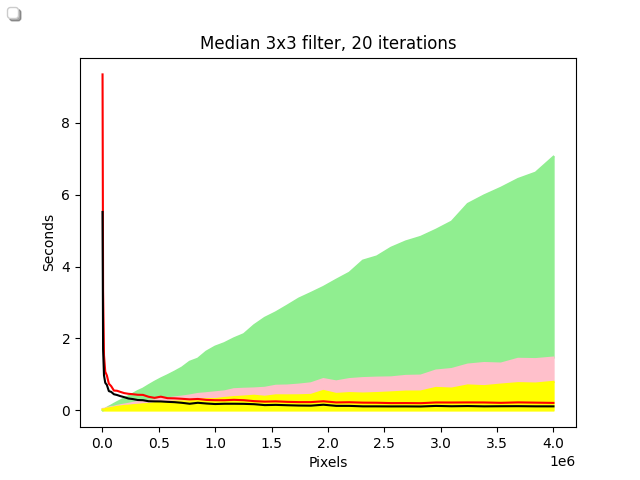
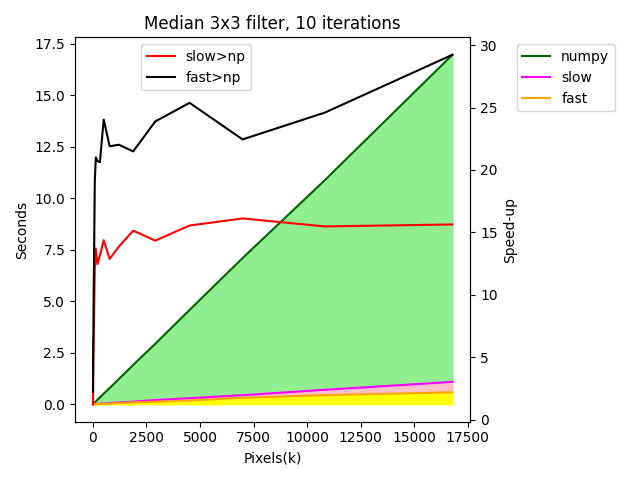
Improving the docs, getting the examples working again

diff --git a/examples/median3x3_comparison.py b/examples/median3x3_comparison.py
@@ -11,17 +11,16 @@ def median3x3(input, iterations=1):
         input = median_filter(input,3)
     return input
 
-sizes = []
 areas = []
 yapocisfast_deltas = []
 yapocis_deltas = []
 numpy_deltas = []
 errors = []
-ITERATIONS=20
-SAMPLES=50
-STEP=40
-for i in range(0,SAMPLES):
-    width = (i+1)*STEP
+ITERATIONS=10
+SAMPLES=20
+sizes = np.logspace(6,12,num=SAMPLES,base=2).astype(np.int)
+
+for width in sizes:
     img = np.float32(np.random.random_sample((width,width)))
     
     t = time.time()
@@ -37,34 +36,38 @@ for i in range(0,SAMPLES):
     yapocisfast_delta = time.time() - t
 
     print(width, numpy_delta, yapocis_delta, yapocisfast_delta)
-    sizes.append(width)
     areas.append(width*width)
     numpy_deltas.append(numpy_delta)
     yapocis_deltas.append(yapocis_delta)
     yapocisfast_deltas.append(yapocisfast_delta)
     
 from matplotlib import pyplot as plot
-areas = np.array(areas)
+areas = np.array(areas)/1000.
 numpy_deltas = np.array(numpy_deltas)
 yapocis_deltas = np.array(yapocis_deltas)
 yapocisfast_deltas = np.array(yapocisfast_deltas)
-ratio = yapocis_deltas/numpy_deltas
-ratio2 = yapocisfast_deltas/numpy_deltas
-p = plot.subplot(111)
-plot.title("Median 3x3 filter, %s iterations" % ITERATIONS,fontsize="large")
-l1 = plot.plot(areas, numpy_deltas,color="lightgreen")
-l2 = plot.plot(areas, yapocis_deltas,color="pink")
-l3 = plot.plot(areas, yapocisfast_deltas,color="yellow")
-l4 = p.plot(areas,ratio,color="red")
-l5 = p.plot(areas,ratio2,color="black")
-plot.fill_between(areas, numpy_deltas, yapocis_deltas,color="lightgreen")
-plot.fill_between(areas, yapocisfast_deltas, yapocis_deltas, color="pink")
-plot.fill_between(areas, np.zeros_like(yapocis_deltas),yapocisfast_deltas, 
+ratio = 1.0/(yapocis_deltas/numpy_deltas)
+ratio2 = 1.0/(yapocisfast_deltas/numpy_deltas)
+unity = numpy_deltas/numpy_deltas
+fig, ax1 = plot.subplots()
+ax1.set_title("Median 3x3 filter, %s iterations" % ITERATIONS,fontsize="large")
+ax1.set_xlabel("Pixels(k)",fontsize="medium")
+ax1.plot(areas, numpy_deltas,color="darkgreen",label="numpy")
+ax1.plot(areas, yapocis_deltas,color="magenta",label="slow")
+ax1.plot(areas, yapocisfast_deltas,color="orange",label="fast")
+ax1.fill_between(areas, numpy_deltas, yapocis_deltas,color="lightgreen")
+ax1.fill_between(areas, yapocisfast_deltas, yapocis_deltas, color="pink")
+ax1.fill_between(areas, np.zeros_like(yapocis_deltas),yapocisfast_deltas, 
                   color="yellow")
-plot.figlegend( (l1, l2, l3, l4, l5), 
-                ('numpy', 'yapocis','yapocis-fast','yapocis/numpy','fast/numpy'), 
-                'upper left', shadow=True)
-plot.xlabel("Pixels",fontsize="medium")
-plot.ylabel("Seconds",fontsize="medium")
-plot.savefig("../../doc/images/median3x3-performance.png")
+ax1.set_ylabel("Seconds",fontsize="medium")
+ax2 = ax1.twinx()
+ax2.plot(areas,ratio,color="red",label="slow>np")
+ax2.plot(areas,ratio2,color="black",label="fast>np")
+#ax2.plot(areas,unity,color="blue",label="baseline")
+ax2.set_ylabel("Speed-up")
+#ax2.set_ylim(0,1.2)
+ax1.legend(bbox_to_anchor=(1.1, 1.0), loc='upper left')
+ax2.legend(bbox_to_anchor=(.15, 1.0), loc='upper left')
+fig.tight_layout()
+plot.savefig("docs/images/median3x3-performance.png")
 plot.show()

diff --git a/external/demo_life.py b/external/demo_life.py
@@ -8,7 +8,7 @@ two neighbours; a dead cell is brought to life if it has exactly three
 neighbours (determined in Cell::setNextState).
     Iain Haslam, June 2005.
 """ 
-#  Copyright Sean D. True & SwapWizard dba (c) 2011-2021.
+import time
 
 from tkinter import *
 root = Tk()
@@ -48,6 +48,7 @@ class Grid:
     def __init__(self,parent,sizex,sizey):
         self.sizex = sizex
         self.sizey = sizey
+        self.running = False
         #numpy.zeros(sizex,sizey) is a better choice,
         #but an additional dependency might be rude...
         self.cells = []
@@ -65,7 +66,10 @@ class Grid:
             self.cells[9][11].displayState(Cell.LIVE)
             self.cells[10][11].displayState(Cell.LIVE)
             self.cells[11][11].displayState(Cell.LIVE)
- 
+
+    def run(self):
+        self.running = not self.running
+
     def step(self):
         """Calculate then display the next iteration of the game of life.
  
@@ -90,7 +94,10 @@ class Grid:
         for row in cells:
             for cell in row:
                 cell.stepToNextState()
- 
+        if self.running:
+            time.sleep(.001)
+            self.step()
+
     def clear(self):
         for row in self.cells:
             for cell in row:
@@ -99,12 +106,14 @@ class Grid:
 if __name__ == "__main__":
     frame = Frame(root)
     frame.pack()
-    grid = Grid(frame,25,25)
+    grid = Grid(frame,40,40)
     bottomFrame = Frame(root)
     bottomFrame.pack(side=BOTTOM)
     buttonStep = Button(bottomFrame,text="Step",command=grid.step)
     buttonStep.pack(side=LEFT)
     buttonClear = Button(bottomFrame,text="Clear",command=grid.clear)
     buttonClear.pack(side=LEFT,after=buttonStep)
+    buttonRun = Button(bottomFrame,text="Run",command=grid.run)
+    buttonRun.pack(side=LEFT,after=buttonStep)
     root.mainloop()
     

diff --git a/examples/demo_rpc.py b/examples/demo_rpc.py
@@ -30,7 +30,7 @@ def test():
     show_array("Noisy", image)
     show_array("Filtered", filtered)
     
-    image = np.float32(imread("../yapocis/test.jpg"))
+    image = np.float32(imread("tests/test.jpg"))
     image /= 256.
 
     show_array("Test HSI", image)
@@ -50,10 +50,13 @@ def test():
     g,a = gradient(i,5)
     show_array("Gradient", g)
     show_array("Angle", a)
+    g,a = gradient(i,5)
     sat = np.ones_like(i)
     gimg = join_channels(*hsi2rgb(a, sat, g))
     show_array("Color gradient with angle", gimg)
+    g,a = gradient(i,5)
     show_arraygrad("Grad angle", image, a)
+    g,a = gradient(i,5)
     show_arraygrad("Grad vectors", image, a, g * 10)
    
 if __name__ == '__main__':

diff --git a/docs/conf.py b/docs/conf.py
@@ -28,7 +28,7 @@ sys.path.insert(0, os.path.abspath('../yapocis'))
 
 # Add any Sphinx extension module names here, as strings. They can be extensions
 # coming with Sphinx (named 'sphinx.ext.*') or your custom ones.
-extensions = ['sphinx.ext.autodoc', 'sphinx.ext.viewcode','sphinx.ext.todo', 'sphinx.ext.napoleon','autoapi.extension']
+extensions = ['recommonmark', 'sphinx.ext.autodoc', 'sphinx.ext.viewcode','sphinx.ext.todo', 'sphinx.ext.napoleon','autoapi.extension']
 
 # Napoleon settings
 napoleon_google_docstring = True

diff --git a/yapocis/utils/advanced.py b/yapocis/utils/advanced.py
@@ -42,7 +42,11 @@ def _show_array(*args, normalize=True):
 
     if array.dtype != np.float32:
         array = array.astype(np.float32) / 255.
-    array = array.copy()
+    else:
+        try:
+            array = array[:,:]
+        except:
+            array = array[:,:,:]
     if normalize and array.dtype in (np.float32, np.float64, np.float):
         array -= array.min()
         array /= array.max()

diff --git a/yapocis/lib/median.py b/yapocis/lib/median.py
@@ -1,8 +1,6 @@
 '''
 Provides 2d median filter for 2d arrays
 '''
-
-
 #  Copyright Sean D. True & SwapWizard dba (c) 2011-2021.
 
 import yapocis.rpc.programs

diff --git a/docs/intro.md b/docs/intro.md
@@ -1,0 +1,63 @@
+# Introduction
+
+## Problem
+
+Image processing is inherently computationally challenging. Lots of data
+leads to lots of approximations, shortcuts, and undone experiments. We
+need code that runs fast, and is easy to develop.
+
+## Distant past
+
+I\'ve tried a fair number of hardware and software configurations for
+doing these experiments. Some, like CADDR-1, are were not readily
+available. Some, like the dedicated array processors, were
+overwhelmingly expensive. Some, like Python, come both included as
+batteries (pre-installed) and come with batteries included (Python
+packages like PIL and Numpy). Things I actually tried:
+
+-   [CADDR](https://en.wikipedia.org/wiki/Lisp_machine)-1 & convolution hardware (1980)
+-   Intel 3/486, lots of memory, and C/Assembly language with DOS extenders like [DOS/4G](https://doom.fandom.com/wiki/DOS_%E2%81%84_4GW) (1985)
+-   Pentium computers, Python, and [PIL](https://en.wikipedia.org/wiki/Python_Imaging_Library) (1995)
+-   Fast computers, [Python](https://image.slidesharecdn.com/why-i-love-python-1214879408845659-9/95/why-i-love-python-7-728.jpg?cb=1214853919), Numeric/Numarray/Numpy, and PIL (2000-2005)
+-   Fast computers, Python, Numpy, PIL, and Pyrex/Cython (2010)
+
+Things I ignored:
+
+-   Cluster based multi-processing
+
+I have/had a large number of computers (meaning, too many), which made cluster-based computing worth considering. But the computers are usually doing something else.
+and cluster based computer means cluster management. Too much overhead, both literally and in headaches.
+
+## Alternatives in 2011
+All things I actually tried.
+
+-   Multi-core multi-processing
+-   GPU based solutions
+    -   NVidia & Cuda
+    -   Everybody else & OpenCL
+
+
+GPU based solutions were promising, and I got one for free with my Mac. In fact, I got two, because Apple included a CPU implementation of OpenCL for Intel which is really fast. And I didn't have an Nvidia card, but had a good AMD graphics card with OpenCL support.
+
+CUDA was, and is, less widely available and has massive vendor lock-in 
+consequences.
+
+Writing in OpenCL is a lot like writing in C. It helps to have other
+peoples examples, and to remember that premature optimization is not a
+good idea. Optimized OpenCL can be hard to read, and can run at near FTL speed. Unoptimized OpenCL can be very easy to read, and can run 10 times faster than Numpy. 
+
+PyOpenCL is terrific. The procedure call interface is a little rough: we can do better. Back to the future, with a modified Apollo RPC / Apollo NCS RPC, OSF DCE RPC, MS RPC (COM) interface specification (sweet and nutritious) and a home grown but easy to use Python thunking layer (bitter, but you can mostly ignore it). With a little care, and syntactic sugar, even the bitter parts can go down pretty well.
+
+## Current alternatives
+Things I am currently doing.
+
+- Taking Numpy closer to the metal with accelerators like Numba
+- OpenCL almost everywhere
+
+
+There are some newer alternatives to writing almost in Python and having it compiled to machine instructions. Numba is particularly good for accelerating operations over Numpy arrays where there is no baked in support in Numpy and OpenCL is not a good fit,
+
+The world is a lot more complicated than in 2011. GPU computing has largely evolved in response to the needs of deep neural network development. Nvidia has been the default there for a long time. But there are signs of change.
+
+OpenCL development has continued, although Apple is deprecating it in favor of the proprietary Metal architecture (not yet an option for general compute kernels). Intel and AMD have doubled down on OpenCL across a variety of architectures. Intel supports it on CPU, on Intel graphics hardware, on the Myriad Neural Compute chip, and on FPGA. FPGAs are becoming practical in the enthusiast world. AMD continues support for OpenCL for their GPUs.
+

diff --git a/docs/examples.rst b/docs/examples.rst
@@ -4,20 +4,15 @@ Short examples
 
 First, a kernel that implements a 3x3 median filter on a 2-d array:
 
-.. literalinclude:: /../yapocis/rpc/median3x3.mako
+.. literalinclude:: /../yapocis/kernels/median3x3.mako
    :language: c
    :linenos:
    
 and the interface specification that lets us call it:
 
-.. code-block:: c
-
-    interface median3x3 {
-        kernel median3x3(sizeof int a, heightof int a, in float* a, outlike a );
-        alias first as median3x3(sizeof int a, heightof int a, in float* a, in float* ret );
-        alias step as median3x3(sizeof int a, heightof int a, resident float* a, resident float* ret );
-        alias last as median3x3(sizeof int a, heightof int a, resident float* a, out float* ret );
-    };
+.. literalinclude:: /../yapocis/interfaces/median3x3.interface
+   :language: c
+   :linenos:
 
 The primary kernel entry point has only one visible argument to Python (the input array *a*). The other values are introspected
 at run time.
@@ -27,14 +22,14 @@ returned (*last*).
 
 Now, the wrapper code for loading that in an even prettier way:
    
-.. literalinclude:: /../yapocis/median.py
+.. literalinclude:: /../yapocis/lib/median.py
    :language: python
    :linenos:
 
 and a driver program that compares running the median filter 10 times
 on each of an increasing series of image sizes.
 
-.. literalinclude:: /../yapocis/examples/median3x3_comparison.py
+.. literalinclude:: /../examples/median3x3_comparison.py
    :language: python
    :linenos:
    

diff --git a/docs/summary.rst b/docs/summary.rst
@@ -19,18 +19,18 @@ done from Python:
 
 First the easy way, with numpy:
 
-.. literalinclude:: /../yapocis/examples/demo_numpy.py
+.. literalinclude:: /../examples/demo_numpy.py
    :language: python
    :linenos:
    
 First the easy and fast way, with yapocis:
 
-.. literalinclude:: /../yapocis//examples/demo_yapocis.py
+.. literalinclude:: /../examples/demo_yapocis.py
    :language: python
    :linenos: 
    
 First the hard and fast way, with raw pyopencl:
 
-.. literalinclude:: /../yapocis/examples/demo_opencl.py
+.. literalinclude:: /../examples/demo_opencl.py
    :language: python
    :linenos:     

diff --git a/docs/index.rst b/docs/index.rst
@@ -14,11 +14,11 @@ Here to make using OpenCL via Python just a little easier. You can find Yapocis 
 
 Yapocis depends on, and is grateful for:
 
-* PyOpenCL: http://mathema.tician.de/software/pyopencl
+* PyOpenCL: https://documen.tician.de/pyopencl/
 
-* pyparsing: http://pyparsing.wikispaces.com/home
+* pyparsing: https://pyparsing-docs.readthedocs.io/en/latest/pyparsing.html
 
-Yapocis is still raw, but appears to be nutritious.
+I've been using Yapocis for about 10 years, it isn't completely raw, and appears to be nutritious.
 Now, for Python 3.7
 
 Contents:
